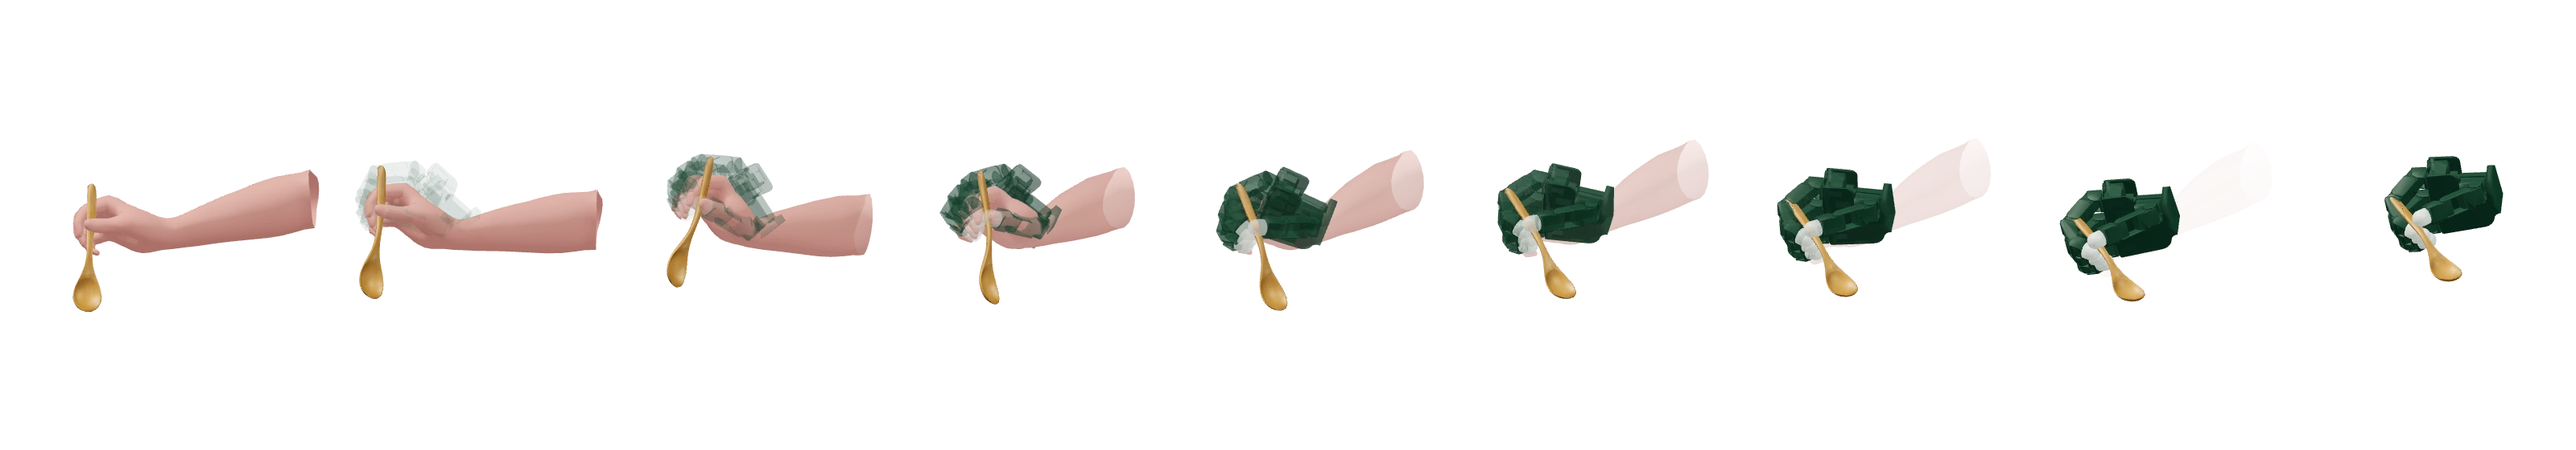
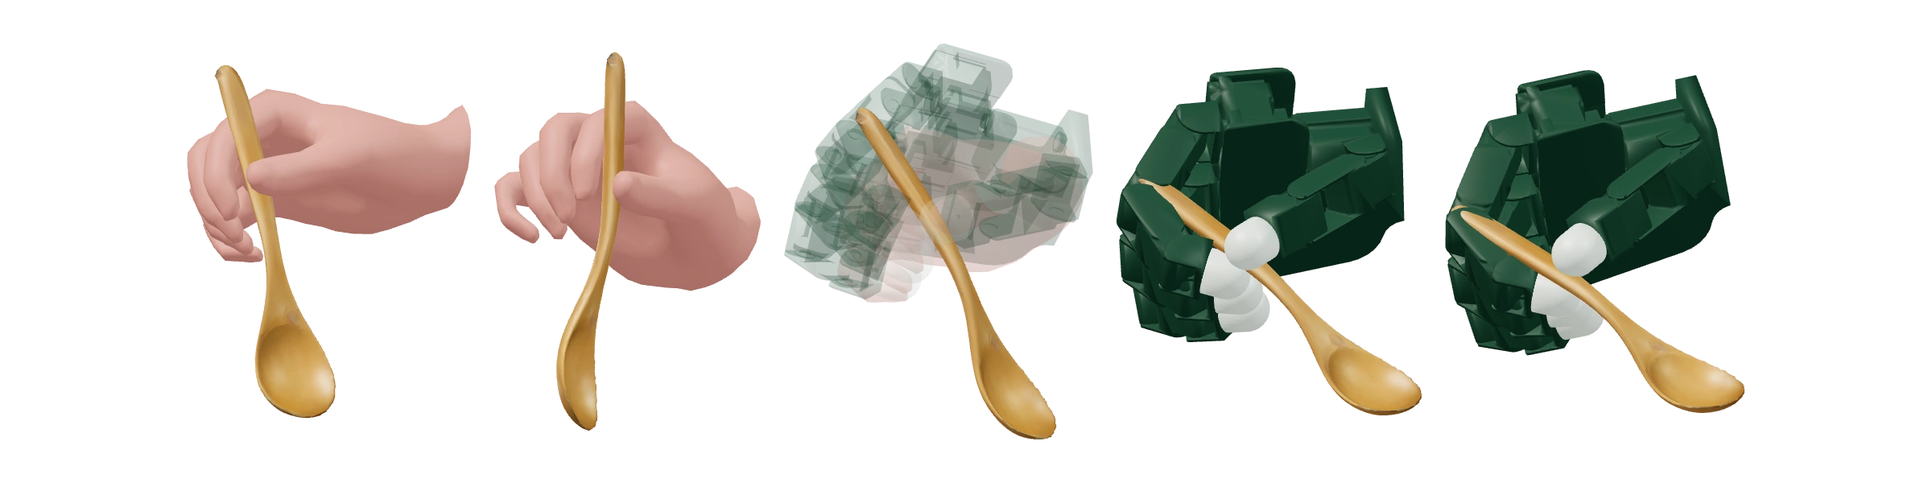
Refine spoon header to five tightly spaced poses

diff --git a/index.html b/index.html
@@ -11,11 +11,11 @@
     <meta name="theme-color" content="#ffffff" />
     <link rel="icon" href="assets/favicon.svg" type="image/svg+xml" />
     <link rel="stylesheet" href="assets/fonts/fonts.css" />
-    <link rel="stylesheet" href="style.css?v=spoon3" />
+    <link rel="stylesheet" href="style.css?v=spoon4" />
     <script type="importmap">
       { "imports": { "three": "./assets/vendor/three.module.js" } }
     </script>
-    <script type="module" src="app.js?v=spoon3"></script>
+    <script type="module" src="app.js?v=spoon4"></script>
   </head>
   <body>
     <a class="skip" href="#main">Skip to content</a>
@@ -49,24 +49,16 @@
           class="identity-sequence"
           aria-label="Spoon transport, from human to robot"
         >
-          <div
-            class="sequence-scroll"
-            tabindex="0"
-            role="region"
-            aria-label="Spoon sequence; scroll horizontally on a small screen"
-          >
+          <div class="sequence-scroll">
             <img
               id="spoon-sequence"
-              src="assets/figures/spoon-sequence.webp?v=spoon3"
-              width="3200"
-              height="560"
+              src="assets/figures/spoon-sequence.webp?v=spoon4"
+              width="2400"
+              height="600"
               fetchpriority="high"
-              alt="Nine successive poses spanning the complete spoon-transport sequence, from the human hand on the left through increasingly visible robot poses to the Allegro hand on the right."
+              alt="Five successive spoon-transport poses: human hands in the first two frames, a faint human and Allegro overlap in frame three, and Allegro alone in the last two."
             />
           </div>
-          <span class="sequence-mobile-hint"
-            >Swipe to follow the sequence →</span
-          >
           <figcaption>
             <span class="rose">Human</span
             ><span class="sequence-axis" aria-hidden="true"></span
@@ -360,7 +352,7 @@
                   playsinline
                   muted
                   preload="metadata"
-                  src="assets/media/real-cut.mp4?v=spoon3"
+                  src="assets/media/real-cut.mp4?v=spoon4"
                   poster="assets/media/real-cut.webp"
                   aria-label="Real-robot cutting experiment"
                 ></video

diff --git a/credits.html b/credits.html
@@ -5,7 +5,7 @@
     <meta name="viewport" content="width=device-width,initial-scale=1" />
     <title>DexOAK · Credits</title>
     <link rel="stylesheet" href="assets/fonts/fonts.css" />
-    <link rel="stylesheet" href="style.css?v=spoon3" />
+    <link rel="stylesheet" href="style.css?v=spoon4" />
   </head>
   <body>
     <main class="credits-page">
@@ -26,11 +26,11 @@
         Research content comes from the supplied DexOAK manuscript and
         presentation. Real-robot footage is extracted from the original
         presentation and encoded at up to 1920 pixels wide, preserving its frame
-        rate. The static header samples nine poses spanning the complete
-        spoon-transport sequence, with human-to-robot opacity changing across
-        the still image. Simulator views render actual meshes, forward
-        kinematics, reference trajectories and recorded policy states in the
-        browser.
+        rate. The static header samples five poses spanning the complete
+        spoon-transport sequence, with a faint human–robot overlap only in the
+        middle pose and the forearm cropped at the wrist. Simulator views render
+        actual meshes, forward kinematics, reference trajectories and recorded
+        policy states in the browser.
       </p>
       <p>
         The cutting optimizer seed and fine-tuned trajectories are archived

diff --git a/style.css b/style.css
@@ -2134,7 +2134,7 @@ h1 .wordmark {
 
 /* Static chronological identity. The figure has no animation or WebGL runtime. */
 .identity-sequence {
-  width: min(1180px, 100%);
+  width: min(760px, 100%);
   margin: 32px auto 23px;
 }
 .sequence-scroll {
@@ -2147,7 +2147,7 @@ h1 .wordmark {
   display: block;
   width: 100%;
   height: auto;
-  min-width: 720px;
+  min-width: 0;
 }
 .identity-sequence figcaption {
   max-width: 760px;
@@ -2178,7 +2178,7 @@ h1 .wordmark {
     margin: 24px auto 24px;
   }
   .identity-sequence img {
-    min-width: 780px;
+    min-width: 0;
   }
   .identity-sequence figcaption {
     font-size: 8px;
@@ -2196,17 +2196,4 @@ h1 .wordmark {
 
 .paper-subtitle > .green {
   margin-left: 0.16em;
-}
-
-.sequence-mobile-hint {
-  display: none;
-}
-@media (max-width: 760px) {
-  .sequence-mobile-hint {
-    display: block;
-    margin-top: 5px;
-    color: var(--muted);
-    font-size: 9px;
-    letter-spacing: 0.3px;
-  }
 }
